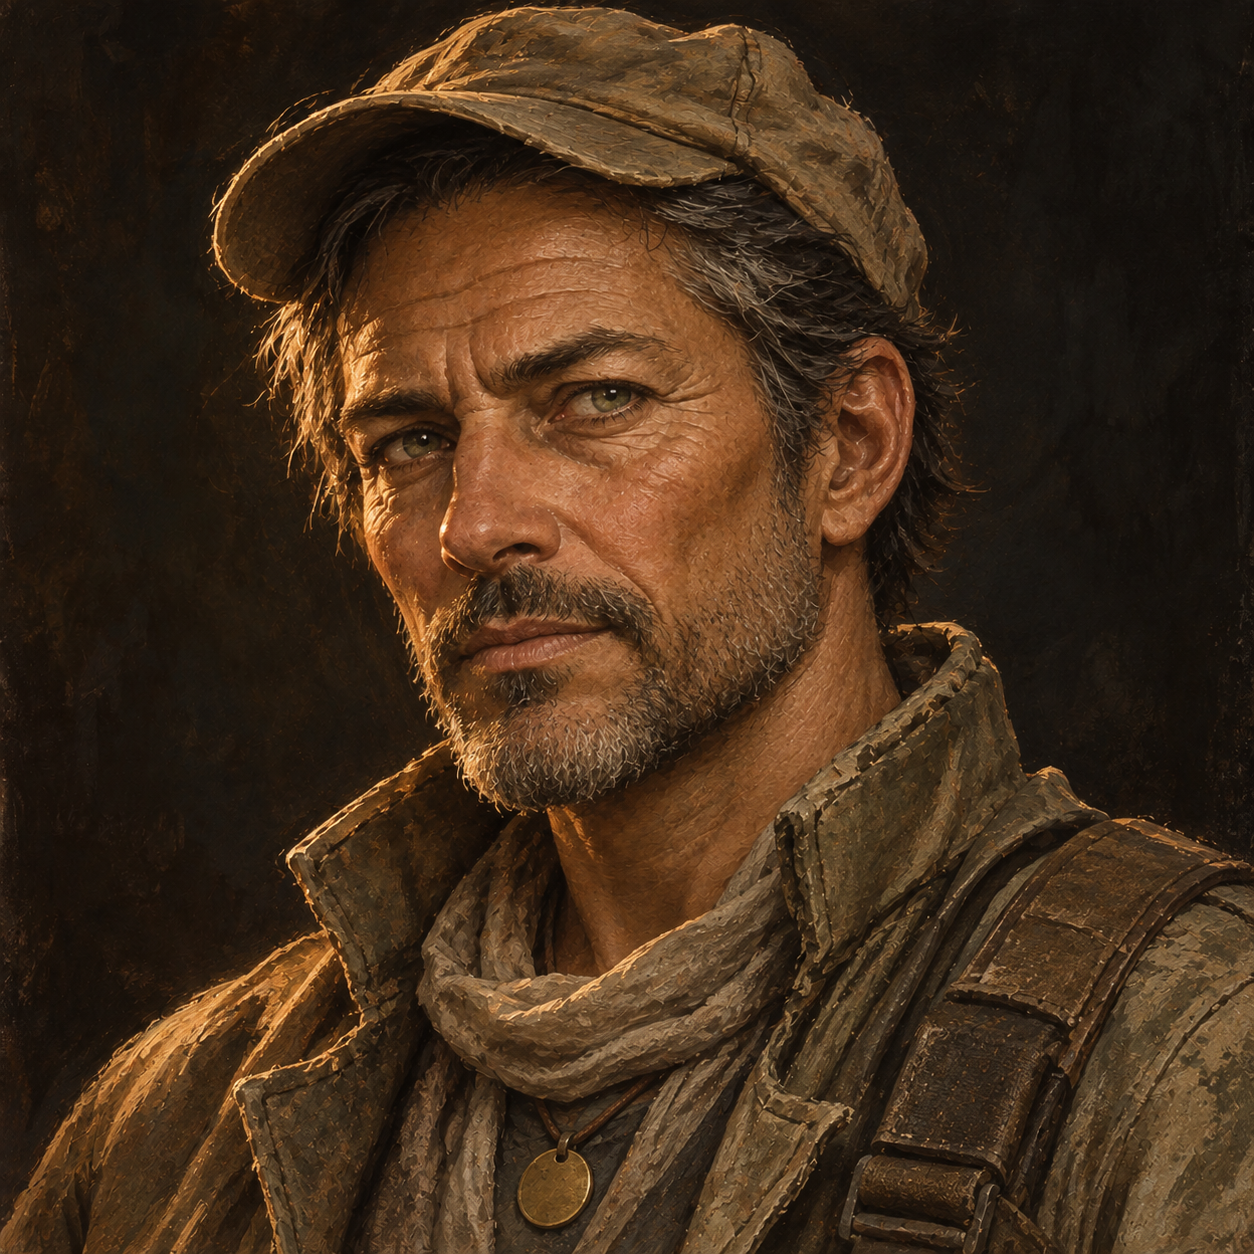
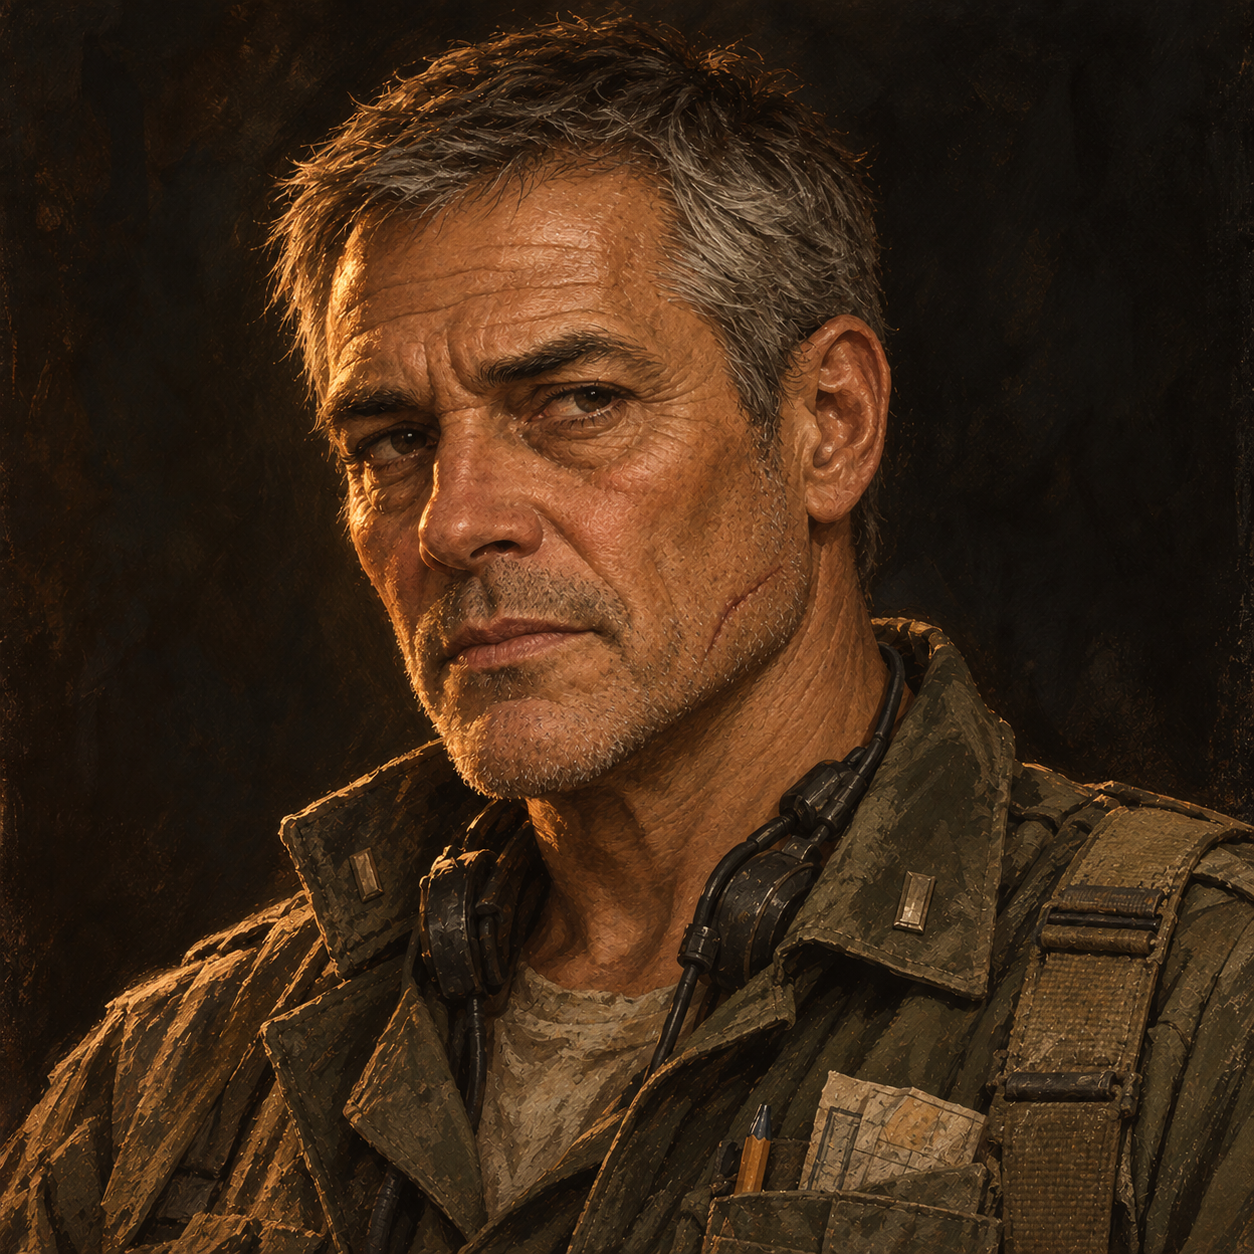
Wellhollow Bloom: Colonel Maro's portrait is a career Defence Force colonel, replacing the farmer (owner pick B of three, 2026-10-28). Late fifties, iron-grey hair, grey stubble, an old jaw scar, worn olive field kit with a headset round his neck and a map in his pocket. Codex ImageGen master, brief

diff --git a/roadmap/campaign/arcs/wellhollow-bloom/design/wellhollow-bloom-arc.md b/roadmap/campaign/arcs/wellhollow-bloom/design/wellhollow-bloom-arc.md
@@ -50,8 +50,9 @@ government's response:
   officers, the company among them. He coordinates more than he orders, until
   the line stabilises and Command gives him a brigade. Hires and briefs the
   company for every job. Stressed, plain, counts people, calls them **ravs**
-  and the bores **holes**. His portrait still shows a farmer in a work jacket
-  with militia webbing and is due a regeneration in Defence Force officer kit.
+  and the bores **holes**. His portrait (owner pick, 2026-10-28) is a career
+  colonel in his late fifties in worn olive field kit, a headset round his
+  neck and a map in his pocket.
 - **Castle**, the company's operations voice, as in every arc.
 
 Asharu in the base game is an independent world whose settlers keep no
